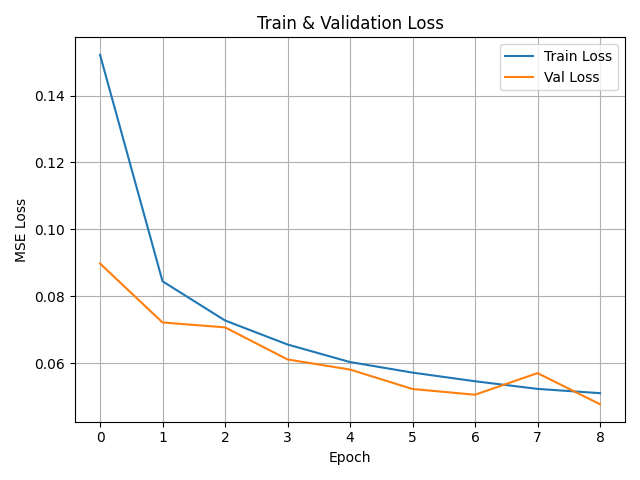
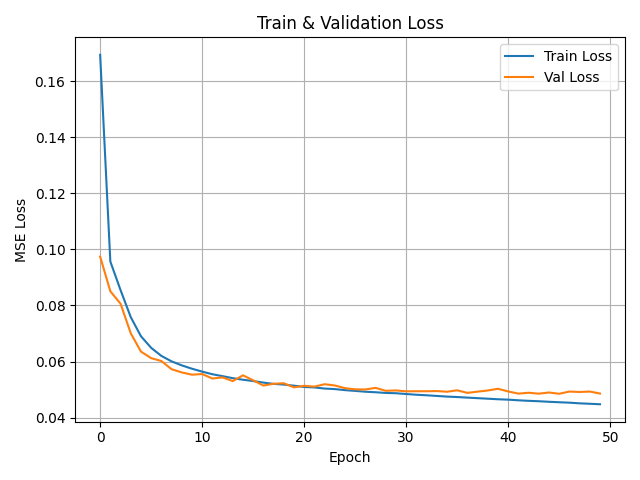
trained transformer

diff --git a/eval_model.py b/eval_model.py
@@ -12,7 +12,7 @@ from train import LitWeatherForecast
 
 
 def plot_loss_curve():
-    metrics_path = "./lightning_logs/lightning_logs/version_8/metrics.csv"
+    metrics_path = "./lightning_logs/lightning_logs/version_16/metrics.csv"
     if not os.path.exists(metrics_path):
         raise FileNotFoundError(f"Metrics file not found at {metrics_path}")
     metrics = pd.read_csv(metrics_path)
@@ -50,7 +50,7 @@ def plot_weather_sample():
     std_e  = dict(np.load(os.path.join(root_dir, "normalize_std_era.npz")))
 
     # checkpoint
-    ckpt_path = "./lightning_logs/lightning_logs/version_8/checkpoints/epoch=04-val_loss=0.0597.ckpt"
+    ckpt_path = "./lightning_logs/lightning_logs/version_16/checkpoints/epoch=45-val_loss=0.0485.ckpt"
     if not os.path.exists(ckpt_path):
         raise FileNotFoundError(f"Checkpoint not found at {ckpt_path}")
     lit_model = LitWeatherForecast.load_from_checkpoint(ckpt_path)
@@ -109,7 +109,7 @@ def plot_weather_sample():
         fig.colorbar(im, ax=ax, shrink=0.7)
 
     plt.tight_layout()
-    plt.savefig("Comparison_t_100000_denorm_epoch04.png")
+    plt.savefig("Comparison_t_100000_denorm_epoch45.png")
     plt.close()
 
 

diff --git a/train.py b/train.py
@@ -79,14 +79,14 @@ if __name__ == "__main__":
         "v_100000","v_92500","v_85000","v_70000","v_50000","v_30000","v_20000",
         "r_100000","r_92500","r_85000","r_70000","r_50000","r_30000","r_20000",
     ]
-    batch_size         = 12
-    test_batch_size    = 12
+    batch_size         = 4
+    test_batch_size    = 4
     img_size           = (16, 16)
     img_size_era       = (32, 32)   # set your ERA resolution
-    patch_size         = 4
-    embed_dim          = 512
-    depth              = 6
-    num_heads          = 8
+    patch_size         = 2
+    embed_dim          = 128
+    depth              = 3
+    num_heads          = 2
     mlp_ratio          = 4.0
     lr                 = 1e-4
     max_epochs         = 50
